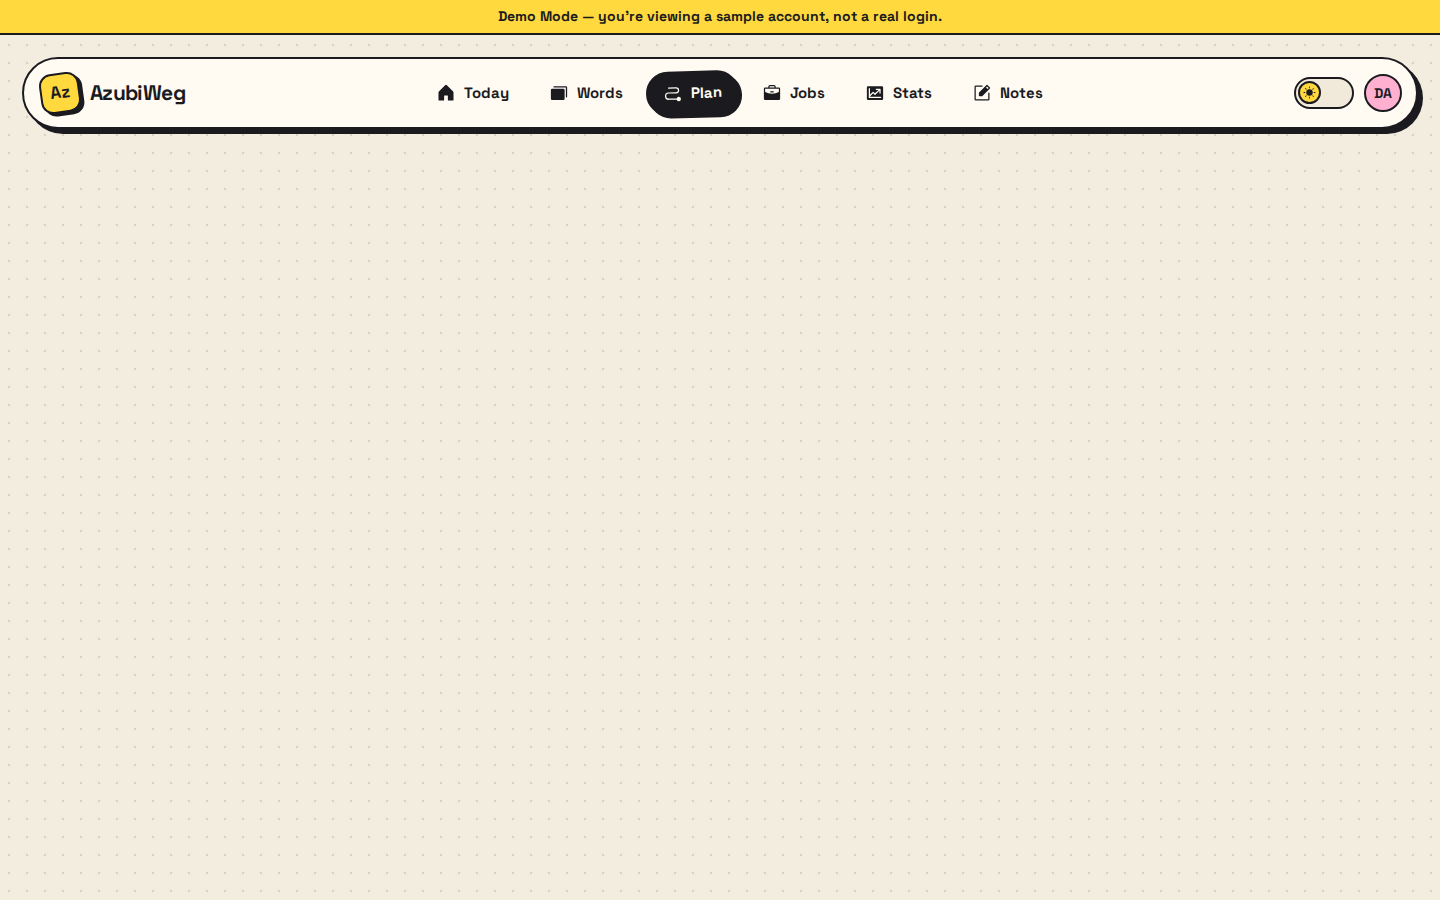
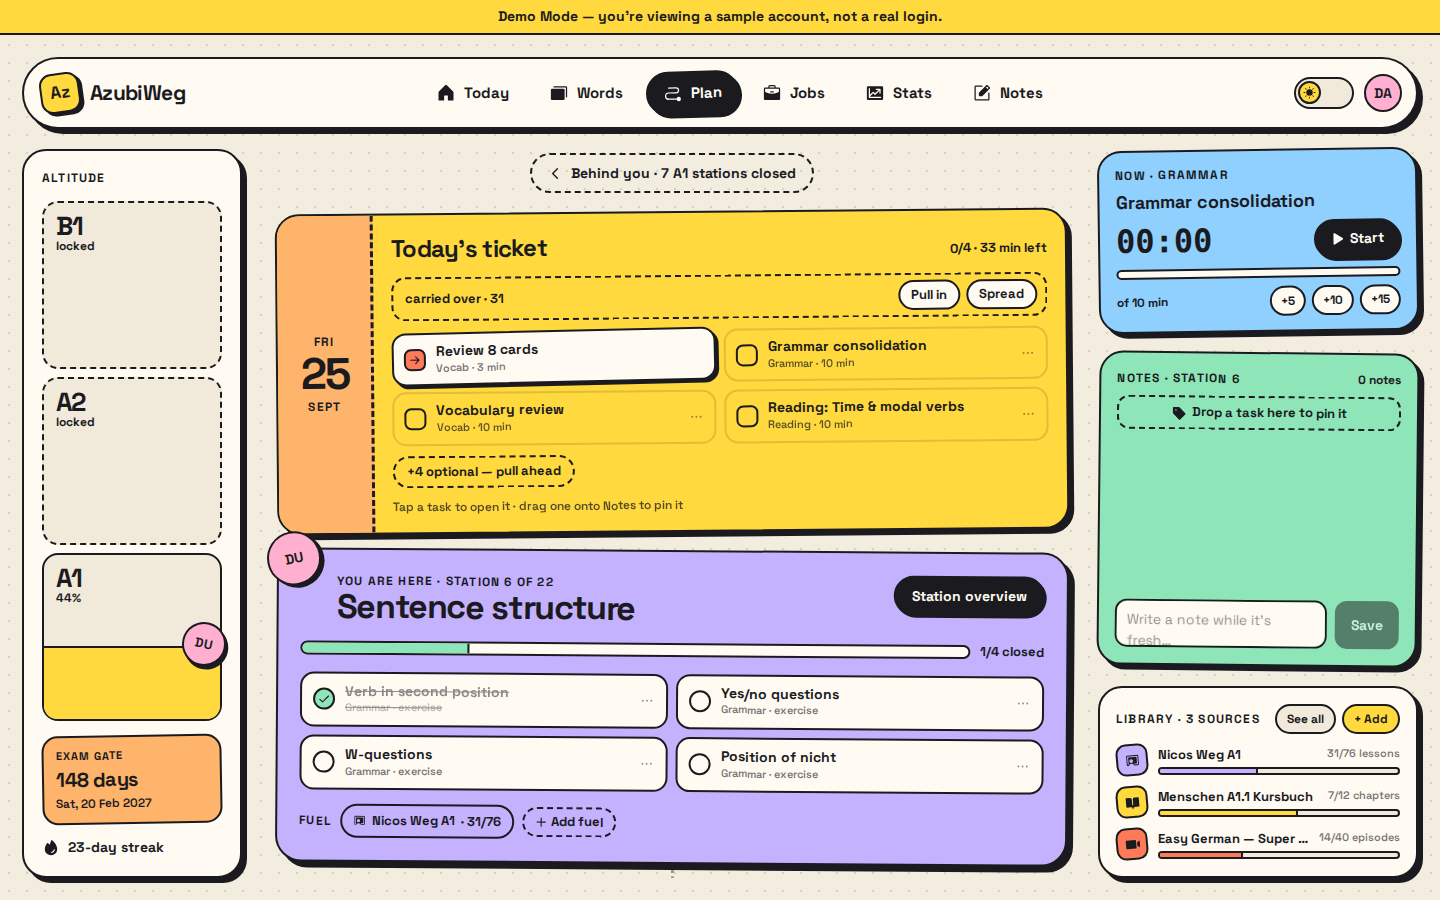
README: describe the Bento app as shipped, fresh screenshots
Rewrite the README around the six Bento tabs, drop features the redesign
removed (portal quick-links, calendar roadmap, word-linked notes dock,
Nocturne), correct the syllabus and question-bank counts, and replace the
screenshots with live captures of every page at desktop and phone size.

diff --git a/README.md b/README.md
@@ -3,13 +3,15 @@
 A platform for people preparing to move to Germany — built by someone doing exactly that.
 
 I'm preparing for an Ausbildung in Germany: learning German, collecting documents,
-tracking applications. This app solves the problems I hit along the way. **V1** is
-a German vocabulary manager with spaced-repetition review, kept in **two-way sync
-with my Obsidian vault**. **V2** adds the application side: a Job Search page
-(kanban application tracker + a CV shelf, with best-effort autofill from a pasted
-posting URL). **V3** adds a Learning Progress Hub — a CEFR syllabus, a day-by-day
-study roadmap, exam-gated level progression, and self-tests — feeding a richer
-dashboard.
+tracking applications. This app solves the problems I hit along the way:
+
+- **Words** — a German vocabulary manager with spaced-repetition review, kept in
+  **two-way sync with my Obsidian vault**.
+- **Plan** — a CEFR study journey from A1 to B1: daily tickets, self-tests,
+  checkpoints and an exam gate per level.
+- **Jobs** — an application pinboard with a CV shelf and best-effort autofill from a
+  pasted posting URL.
+- **Stats** and **Notes** — where you stand and what you've learned along the way.
 
 > The UI is the **Bento "Sticker Club"** design: a bento grid in a playful sticker style (chunky ink outlines, hard
 > offset shadows, slightly rotated tiles), light and dark following the OS, and three real breakpoints. Six tabs:
@@ -17,105 +19,143 @@ dashboard.
 > [CLAUDE.md](CLAUDE.md#the-bento-sticker-club-redesign-shipped-2026-09-25).
 
 <p align="center">
-  <img src="docs/screenshots/dashboard-sm.png" width="200" alt="Today — mobile" />
-  <img src="docs/screenshots/dashboard-lg.png" width="520" alt="Today — desktop" />
+  <img src="docs/screenshots/today-sm.png" width="200" alt="Today — mobile" />
+  <img src="docs/screenshots/today-lg.png" width="520" alt="Today — desktop" />
 </p>
 
-## What V1 does
+## Today
 
-- **Accounts** — email + password, JWT sessions.
-- **Vocabulary manager** — search, filter by lesson, expand for full detail
-  (meaning, IPA, grammar, example, pronunciation audio).
-  <p>
-    <img src="docs/screenshots/vocabulary-sm.png" width="200" alt="Words — mobile" />
-    <img src="docs/screenshots/vocabulary-lg.png" width="520" alt="Words — desktop" />
-  </p>
-- **Automatic enrichment** — type `Zug, Bahnhof, fahren` and the backend fetches
-  meaning (en.wiktionary), IPA + gender/plural/verb forms + an example sentence
-  (de.wiktionary wikitext), and pronunciation audio (Wikimedia Commons recording,
-  converted to MP3 with ffmpeg; free Microsoft Edge neural TTS as fallback).
-- **Daily revision** — SM-2 spaced repetition, byte-compatible with the
-  [Obsidian Spaced Repetition plugin](https://github.com/st3v3nmw/obsidian-spaced-repetition)'s
-  scheduling (verified against real plugin output).
+The home screen: today's route (the tasks due, with a "carried over" row to pull
+in or spread missed work), cards due for review, a weekly-goal ring, your weak
+spot, word count, a streak heatmap, the next job interview, and **Lernzeit** — one
+app-wide task timer that tracks active study time.
+
+## Words
+
+<p>
+  <img src="docs/screenshots/words-sm.png" width="200" alt="Words — mobile" />
+  <img src="docs/screenshots/words-lg.png" width="520" alt="Words — desktop" />
+</p>
+
+- **Vocabulary manager** — search, filter (Nouns, Verbs, Shaky, New, Starred), and
+  strength pips per word. The detail view has meaning, example, pronunciation
+  audio, gender and plural rules, case tables, verb conjugations and the word
+  family.
+- **Automatic enrichment** — type `Zug, Bahnhof, fahren` and the backend fills in
+  meaning, IPA, gender/plural/verb forms and an example sentence from a local
+  import of the German Wiktionary, plus pronunciation audio (a Wikimedia Commons
+  recording converted to MP3 with ffmpeg; free Microsoft Edge neural TTS as
+  fallback).
+- **Review session** — flashcards in three modes (word → meaning, meaning → word,
+  der · die · das) with Again/Hard/Good/Easy, undo, and keyboard shortcuts.
+  Scheduling is SM-2, byte-compatible with the
+  [Obsidian Spaced Repetition plugin](https://github.com/st3v3nmw/obsidian-spaced-repetition)
+  (verified against real plugin output).
+  <p><img src="docs/screenshots/review-lg.png" width="520" alt="Review session" /></p>
 - **Obsidian vault sync** — the killer feature.
 
 ### How the vault sync works
 
-The vault's `Vocab/master.md` is the **source of truth**. The app watches it (and
-`inbox.md`, for words captured on iOS) and mirrors changes into Postgres within
-seconds, then writes its own edits — added words, reviews, grades — back into the
-exact same flashcard format, **byte-identical** (verified against a real vault
-snapshot). Reviews done in the app and in Obsidian update the same
-`<!--SR:!date,interval,ease-->` comments, so both schedulers stay in step.
-Notes can be written to the vault too, one markdown file each under `Notizen/`.
+The vault's `Vocab/master.md` is the **source of truth**. The app watches it and
+mirrors changes into Postgres within seconds, then writes its own edits — added
+words, reviews, grades — back into the exact same flashcard format,
+**byte-identical** (verified against a real vault snapshot). Reviews done in the app
+and in Obsidian update the same `<!--SR:!date,interval,ease-->` comments, so both
+schedulers stay in step. Words captured on the phone into `Vocab/inbox.md` are
+picked up on "Sync now". Notes can be written to the vault too, one markdown file
+each under `Notizen/`.
 
-## What V2 adds
+## Plan
 
-- **Job Search** — a pinboard application tracker (Wishlist → Applied → Interview →
-  Offer, with rejections counted as closed) that detects the German level a posting
-  asks for and keeps per-job interview phrases. CVs, cover letters and certificates
-  live on a **CV shelf** in Settings: each document keeps its old versions, one CV is
-  the default that new applications preselect, and every application remembers the
-  version it went out with. A document is just a file you already have (PDF/Word) —
-  no in-app builder to keep in sync with a PDF export. New applications can be
-  created from a pasted job-posting URL: a server-side fetch reads the page's
-  `JobPosting` structured data (or falls back to its title/meta tags) to
-  best-effort prefill company/role/location/portal — always editable, never
-  required. Auto-logged timeline per application (status changes, notes,
-  interviews), portal quick-links to platforms like GoAusbildung with
-  stale-check reminders (since none of them offer account sync or public
-  APIs), and stats: response rate, interview rate, average days to response,
-  applications per week.
+<p>
+  <img src="docs/screenshots/plan-sm.png" width="200" alt="Plan — mobile" />
+  <img src="docs/screenshots/plan-lg.png" width="520" alt="Plan — desktop" />
+</p>
 
-## What V3 adds
+- **Journey** — each CEFR level (A1, A2, B1) is a route of stations (22–23 per
+  level) built from a 407-item syllabus of grammar, vocabulary and skill topics.
+- **Today's ticket** — the day's core tasks sized to your study capacity, with
+  optional extras to pull ahead and a week view with your pace. Each task opens a
+  workspace with exercises, audio, recording, a timer and notes.
+- **Self-tests** — multiple choice and fill-in from a 160-question practice bank,
+  a gender drill, and listen & type.
+- **Checkpoints and mock exam** — scoped mixed tests at stations 7, 14 and 21, and a
+  practice run of the level exam two weeks before your exam date.
+- **Exam gate** — levels unlock in order. Each has its own exam bank (20 questions,
+  20 minutes, 70% to pass) with a real time limit and attempt rate limit
+  (`server/src/services/learning/exam.ts`) instead of levels unlocking freely.
+- **Library** — your study sources (Nicos Weg, textbooks, podcasts, YouTube) with
+  covers, progress you log by tapping +1, and a link to the station each one
+  serves, since none of these platforms offer a progress API.
 
-- **CEFR syllabus** — 174 seeded topics (grammar/vocab/skill) across A1, A2, and
-  B1. Checking items off drives per-level completion percentage and "what's
-  next" suggestions.
-  <p>
-    <img src="docs/screenshots/plan-sm.png" width="200" alt="Plan — mobile" />
-    <img src="docs/screenshots/plan-lg.png" width="520" alt="Plan — desktop" />
-  </p>
-- **Exam-gated level progression** — sequential CEFR unlocking: a dedicated,
-  separately-authored exam question bank (distinct from the practice-quiz
-  bank below) gates each level, with a real pass-threshold/time-limit/
-  attempt-rate-limit engine (`server/src/services/learning/exam.ts`) rather
-  than letting levels unlock freely.
-- **Day-by-day roadmap** — a 182-day (26-week) study plan to Goethe-exam
-  readiness, generated live from syllabus progress, with a calendar view and
-  overdue backlog.
-- **Study-source registry** — register YouTube playlists, Nicos Weg chapters,
-  or Duolingo units and self-log progress, since none of these platforms
-  expose a progress API.
-- **Self-tests & Goethe readiness** — a 163-question practice bank built from
-  syllabus topics and vocab/SRS data, with weekly/monthly readiness rollups.
-- **Word family** — related-word lookups from
-  [DErivBase](https://www.ims.uni-stuttgart.de/forschung/ressourcen/lexika/derivbase/),
-  tiered by relatedness score (closely related vs. same family but a
-  stretch) and cross-referenced against your own tracked vocab.
-- **Word-linked notes** — freeform notes can attach to a specific vocab word
-  (surfaced on that word's detail view) in addition to a syllabus topic or
-  roadmap task.
-- **Activity tracking** — day-streaks and study-time history computed from
-  real activity, feeding the dashboard's activity chart.
+## Jobs
+
+<p>
+  <img src="docs/screenshots/jobs-sm.png" width="200" alt="Jobs — mobile" />
+  <img src="docs/screenshots/jobs-lg.png" width="520" alt="Jobs — desktop" />
+</p>
+
+- **Pinboard** — drag applications through Wishlist → Applied → Interview → Offer,
+  with rejections counted as closed. On phones the stages become tabs.
+- **Autofill from a link** — paste a job-posting URL and a server-side fetch reads
+  the page's `JobPosting` data (or its title/meta tags) to prefill company, role and
+  location. It also detects the German level the posting asks for. Everything stays
+  editable.
+- **Per-application detail** — a timeline of status changes, notes and dated
+  interviews (feeding "Next up"), the CV version it went out with, and interview
+  phrases: a curated bank plus your own.
+- **CV shelf** (in Settings) — CVs, cover letters and certificates as the files you
+  already have (PDF/Word), with version history and a default CV for new
+  applications.
+
+## Stats
+
+<p><img src="docs/screenshots/stats-lg.png" width="520" alt="Stats — desktop" /></p>
+
+Words by strength and accuracy (7 days / 30 days / 1 year), Lernzeit over time,
+the weekly goal, retention against the forgetting curve, mastery by skill,
+article accuracy, a projection of when you'll finish the level and how ready you
+are for the exam, the streak heatmap, your shakiest words, and application
+stats.
+
+## Notes
+
+<p>
+  <img src="docs/screenshots/notes-sm.png" width="200" alt="Notes — mobile" />
+  <img src="docs/screenshots/notes-lg.png" width="520" alt="Notes — desktop" />
+</p>
+
+A sticky wall of notes in five categories (Grammar, Mistakes, Everyday, Jobs,
+Listening), with pinning, attachments, and `/word`, `/station`, `/source` and `/job`
+links. Grammar and Mistakes notes resurface under **Surfaced today** until you
+mark them as known.
+
+## Also
+
+- **Settings** — study capacity and days, new words per day, exam date, Obsidian
+  vault link and sync, plan reset, and the CV shelf.
+- **Command palette** — ⌘K / Ctrl+K search, plus G-letter shortcuts to jump
+  between tabs.
+- **Accounts** — email + password, JWT sessions, and a demo account for portfolio
+  visitors.
 
 ## Stack
 
 | Layer | Choice |
 |---|---|
 | Frontend | React 19, TypeScript, Tailwind CSS 4, TanStack Query, React Router, Vite |
+| UI | Phosphor icons, Space Grotesk, TipTap (notes), @dnd-kit (drag and drop) |
 | Backend | Node.js, Express 5, TypeScript |
 | Database | PostgreSQL, Prisma 7 |
 | Auth | JWT (jsonwebtoken) + bcrypt |
 | Vault sync | chokidar file watcher, custom markdown parser/writer |
 | Enrichment | kaikki.org (German Wiktionary dump) + DErivBase, ffmpeg, msedge-tts |
-| Kanban | @dnd-kit |
 | Uploads | multer → per-user disk storage, auth-checked streaming |
 
 ## Data sources
 
 Vocabulary enrichment (meanings, examples, IPA, declension/conjugation
-tables, audio) is imported once from
+tables) is imported once from
 [kaikki.org](https://kaikki.org/dictionary/German/)'s German Wiktionary
 dump (`server/scripts/import-kaikki.ts`) rather than scraped live per word —
 see Tatu Ylonen, "Wiktextract: Wiktionary as Machine-Readable Structured
@@ -148,7 +188,8 @@ npm run dev                        # http://localhost:5173 (proxies /api)
 ```
 
 Then register, and (optionally) link your Obsidian vault under **Settings** —
-point it at the vault root, the folder containing `Vocab/master.md`.
+point it at the vault root, the folder containing `Vocab/master.md`. For sample
+data, set `DEMO_MODE_ENABLED=true` and run `npm run seed:demo` in `server/`.
 
 ## Tests
 
@@ -158,10 +199,11 @@ cd server && npm test
 
 Covers the vault sync's byte-identical round-trip, SRS scheduling parity with
 the Obsidian plugin, the kaikki.org enrichment pipeline's word resolution,
-and pure-logic suites for applications and the Learning Hub (roadmap
+and pure-logic suites for applications and the learning plan (roadmap
 generation, exam gating, quizzes, activity tracking). Server-side only — no
 dedicated client test runner; UI changes are verified by driving the app in
-a real browser (see [CLAUDE.md](CLAUDE.md#testing-conventions)).
+a real browser (`client/scripts/shots.mjs` sweeps every page at each breakpoint
+in light and dark, and flags console errors and overflow).
 
 ## Deployment
 
@@ -174,28 +216,12 @@ over OneDrive/rclone when the app isn't on the same machine as the vault).
 
 See [docs/ROADMAP.md](docs/ROADMAP.md) for the full ecosystem plan and feature specs.
 
-- **V1** — vocabulary manager, SM-2 spaced repetition, automatic Wiktionary
-  enrichment, two-way Obsidian vault sync.
-- **V2** — Job Search: a kanban application tracker with a CV shelf,
-  best-effort autofill from a pasted posting URL, portal quick-links, and
-  application stats.
-- **V3 — Learning Progress Hub** — CEFR syllabus, a generated day-by-day
-  study roadmap, exam-gated level progression, self-tests, word family
-  lookups, word-linked notes, and activity tracking.
-- **The Bento redesign** — a second full UI rebuild against a Claude Design
-  handoff: bento-grid pages with light/dark themes, a journey-style Plan (stations,
-  checkpoints, mock exam), a Notes sticky wall, a flashcard Review session with
-  Again/Undo, and Settings for study capacity, exam date, Obsidian sync, plan reset
-  and the CV shelf. Deferred leftovers are tracked in `docs/KNOWN_ISSUES.md`.
-- **The Nocturne redesign** — a complete UI/UX rebuild against a dark-only
-  design system, a 5-tab navigation model, and a real desktop (lg+) layout.
-  Full 20-phase history in
-  [CLAUDE.md](CLAUDE.md#the-nocturne-redesign-complete). A small bug backlog
-  is tracked in `docs/KNOWN_ISSUES.md` and is being worked through now.
-- **Now** — an app-wide bug-fixing pass, vocab PDF export + CLI (the last of
-  V1's scope), dashboard upgrades (certificates, GitHub activity), and the
-  rest of V5 (GitHub Actions CI, calendar integration, grammar
-  micro-lessons).
+- **Shipped** — vocabulary manager with SM-2 review and two-way Obsidian sync;
+  the Jobs pinboard with CV shelf; the A1–B1 learning plan with self-tests and
+  exam gates; and the Bento "Sticker Club" redesign (September 2026).
+- **Now** — post-launch bug fixing and the remaining Bento polish (tracked in
+  `docs/KNOWN_ISSUES.md`), vocab PDF export + CLI, GitHub Actions CI, calendar
+  integration, and grammar micro-lessons.
 - **Long run, unscheduled** — Ausbildung opportunity discovery (search/
   filters/bookmarks), a cover letter assistant, a Europass CV template,
   automated ATS checks, a salary & cost planner, and a Germany knowledge
